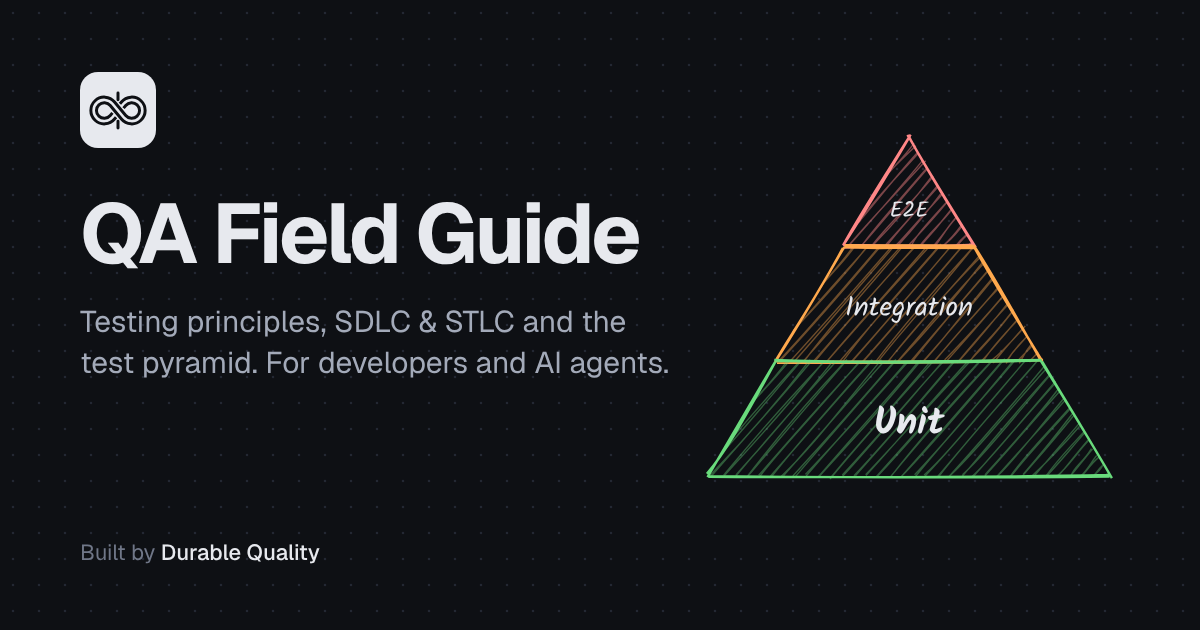
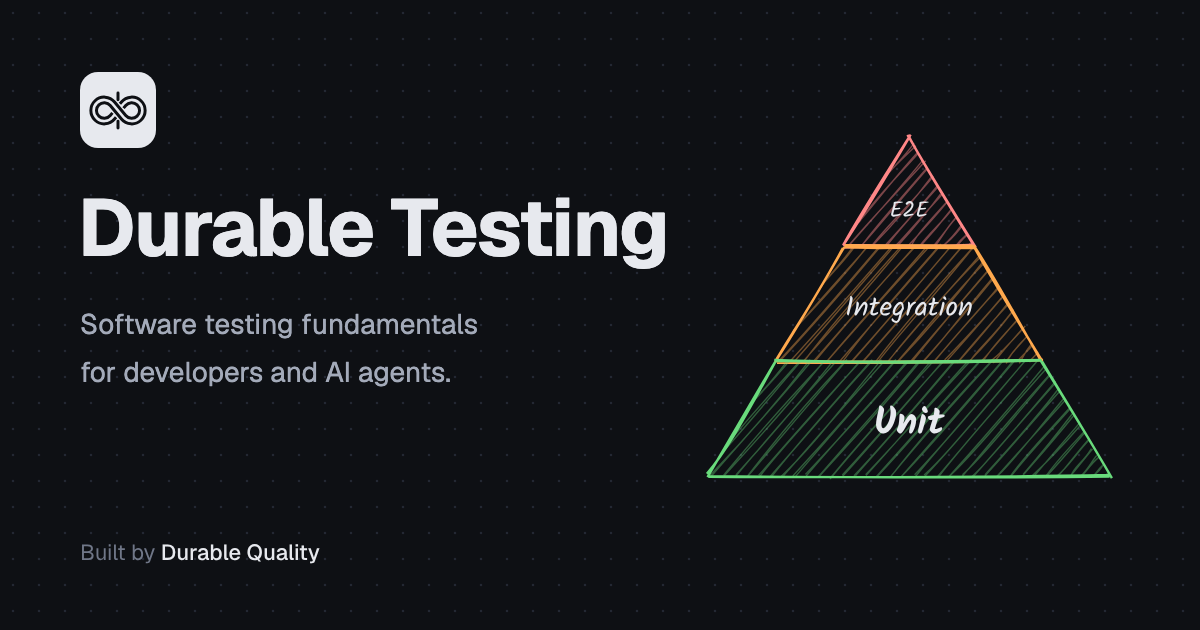
fix: rename Durable Testing link preview and shorten its description
The Open Graph image still said "QA Field Guide". It now reads
"Durable Testing", and the description drops the topic list.

Changed region(s): [[0.0617, 0.4825, 0.555, 0.6333], [0.0617, 0.3016, 0.555, 0.4222]]

diff --git a/CHANGELOG.md b/CHANGELOG.md
@@ -16,6 +16,7 @@
 - `data-track` events on Durable Testing: `copy_page`, `copy_rules`, `copy_skill_install`, `view_markdown`, `open_in_claude`, `open_in_chatgpt`, `open_agent_file`, `theme_change`, `accent_change` and `home_click`.
 
 ### Changed
+- Durable Testing's link preview: the Open Graph image now reads "Durable Testing" instead of "QA Field Guide", and the description is shortened to "Software testing fundamentals for developers and AI agents."
 - The Durable Quality logo is now the supplied image (`icon.png`, white on black) everywhere, shown exactly as delivered, replacing the SVG the landing page drew in the theme's text color. Durable Testing's favicon uses the same image, replacing its redrawn `favicon.svg`.
 - The landing page now uses Durable Testing's type: Geist and Geist Mono replace IBM Plex Sans and Mono, and headings (and the header wordmark) are set in bold Geist with tight tracking instead of monospace. Labels and the guide and Substack card titles stay monospace; the product ticker and product card titles are now Geist too.
 - Durable Testing's header now reads "Durable Quality" instead of "Durable Testing", and links back to the landing page instead of the guide's home. Its dark theme now has the landing page's black background (`#000000`) instead of `#0e1014`.

diff --git a/durable-testing/src/pages/index.md b/durable-testing/src/pages/index.md
@@ -1,6 +1,6 @@
 ---
 title: Durable Testing
-description: Software testing fundamentals for developers and AI agents. The 7 testing principles, the SDLC and STLC, and the test pyramid, with hand-drawn diagrams and rules agents can follow.
+description: Software testing fundamentals for developers and AI agents.
 order: 0
 ---
 
